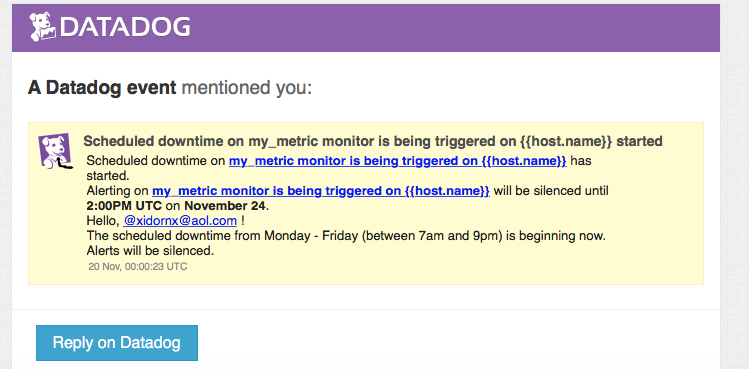
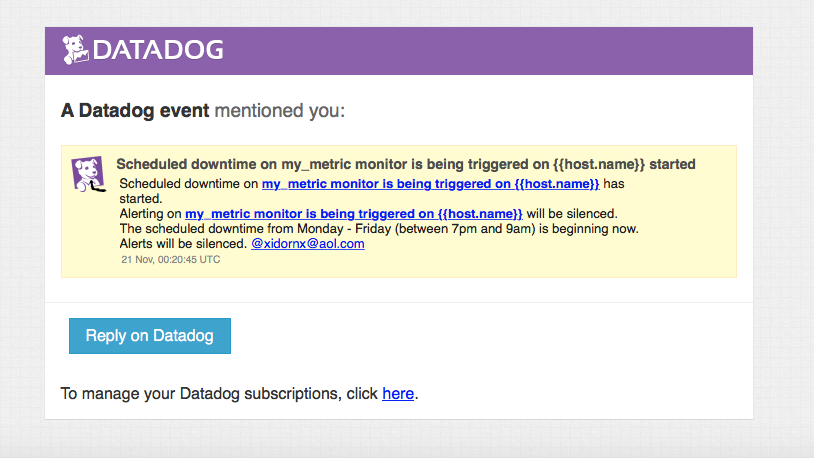
updated answers

diff --git a/answers.md b/answers.md
@@ -262,7 +262,7 @@ No data: There has been no data on my_metric on:
 
 ![alt text][img4c]
 
-[img4c]: ./images/scheduled_downtime_2a.png "7pm to 9am, Monday - Friday,  scheduled downtime notification"
+[img4c]: ./images/scheduled_downtime_2.png "7pm to 9am, Monday - Friday,  scheduled downtime notification"
 
 
 
